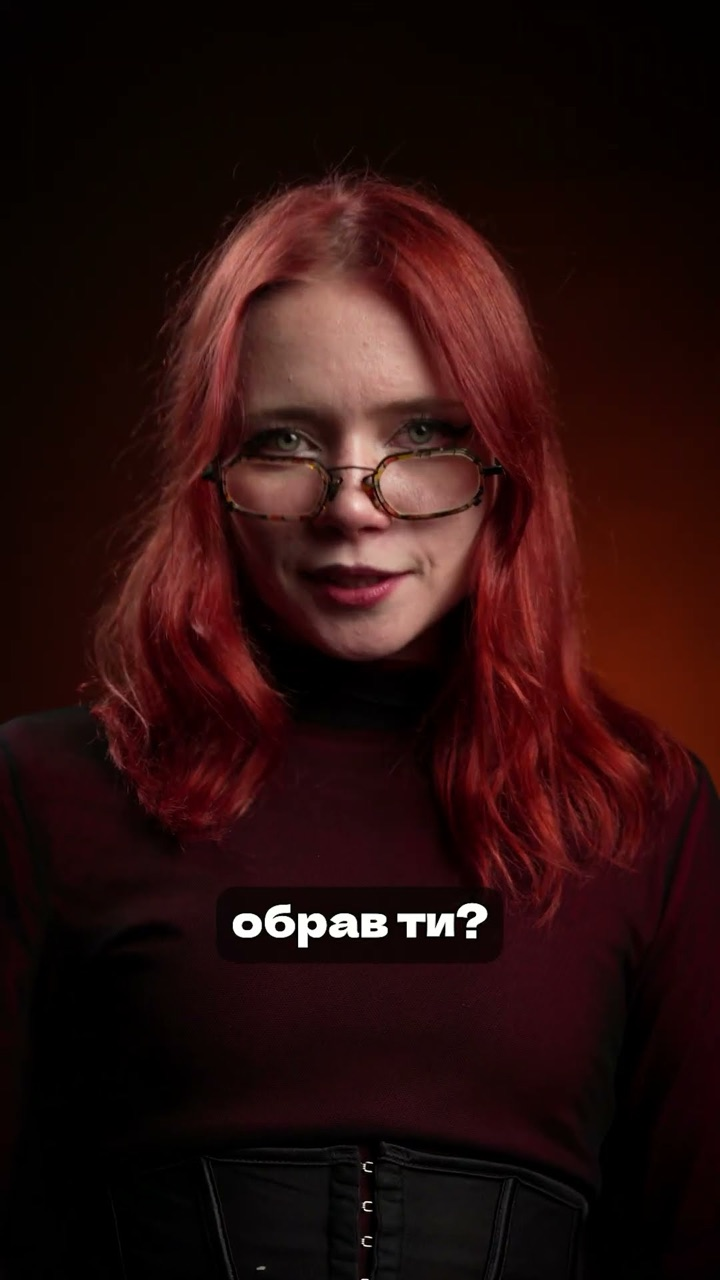
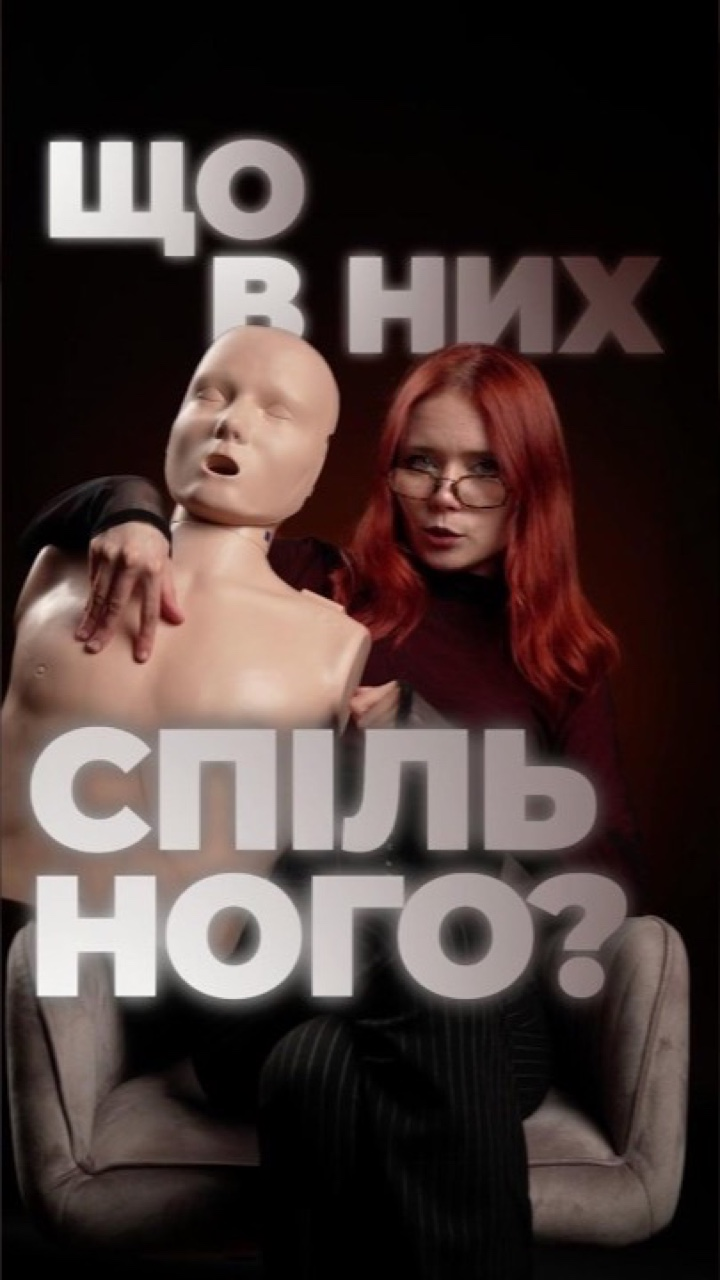
Custom covers for verticals 01 and 04

diff --git a/index.html b/index.html
@@ -9,7 +9,7 @@
 <link rel="preconnect" href="https://fonts.googleapis.com">
 <link rel="preconnect" href="https://fonts.gstatic.com" crossorigin>
 <link href="https://fonts.googleapis.com/css2?family=Anton&family=Oswald:wght@600&family=IBM+Plex+Mono:wght@400;500;600&family=Inter:wght@400;500&display=swap" rel="stylesheet">
-<link rel="stylesheet" href="css/style.css?v=65">
+<link rel="stylesheet" href="css/style.css?v=66">
 </head>
 <body>
 
